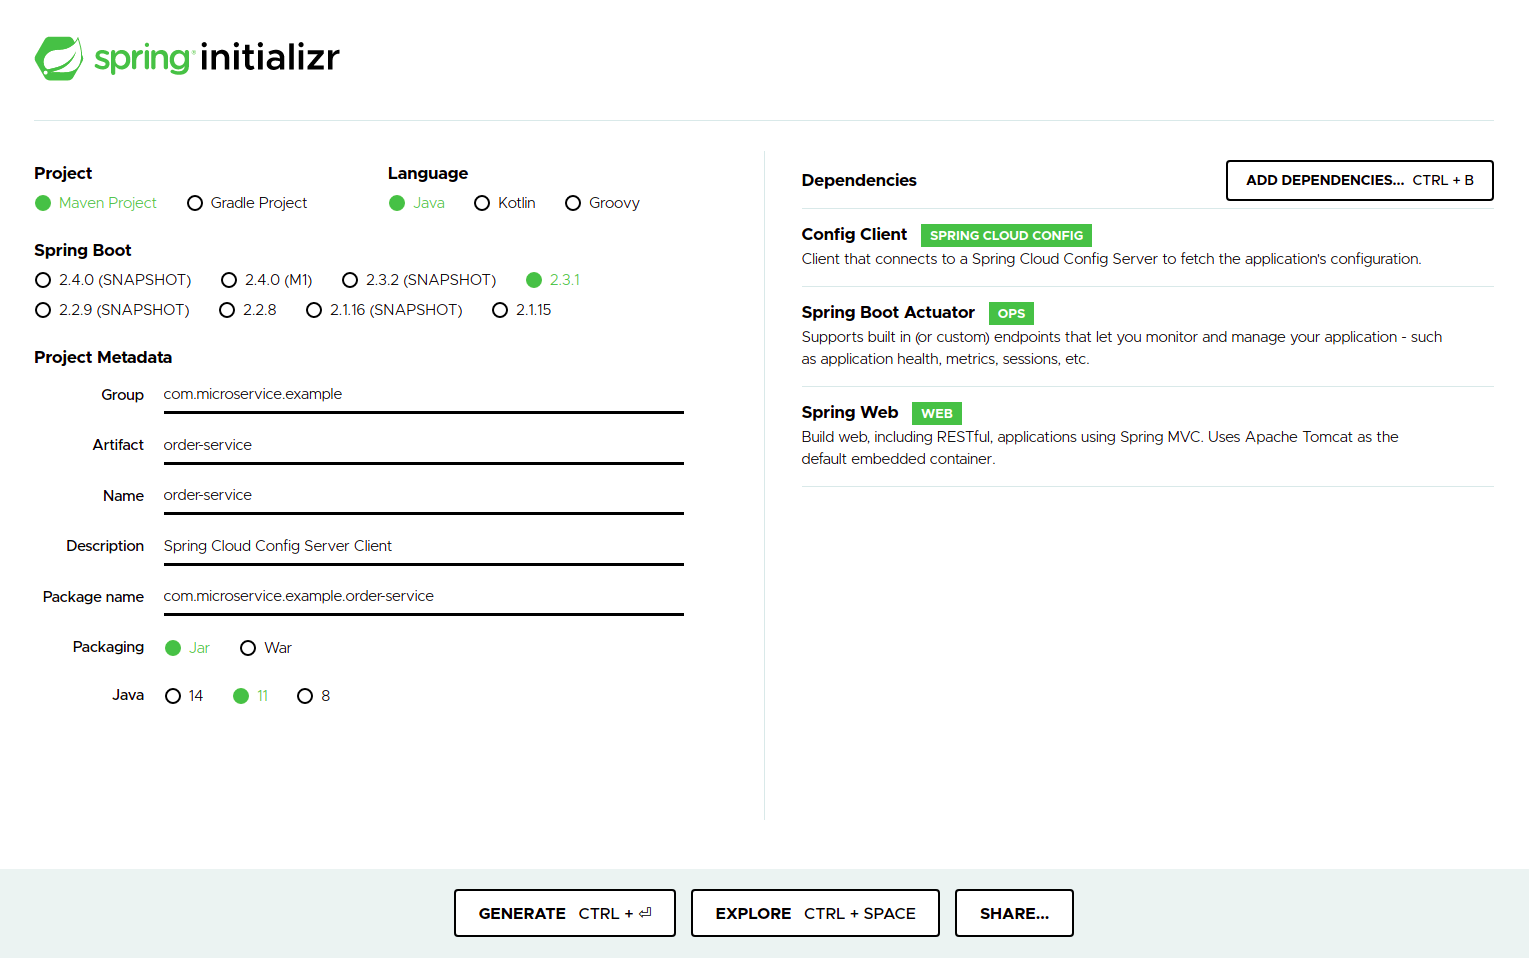
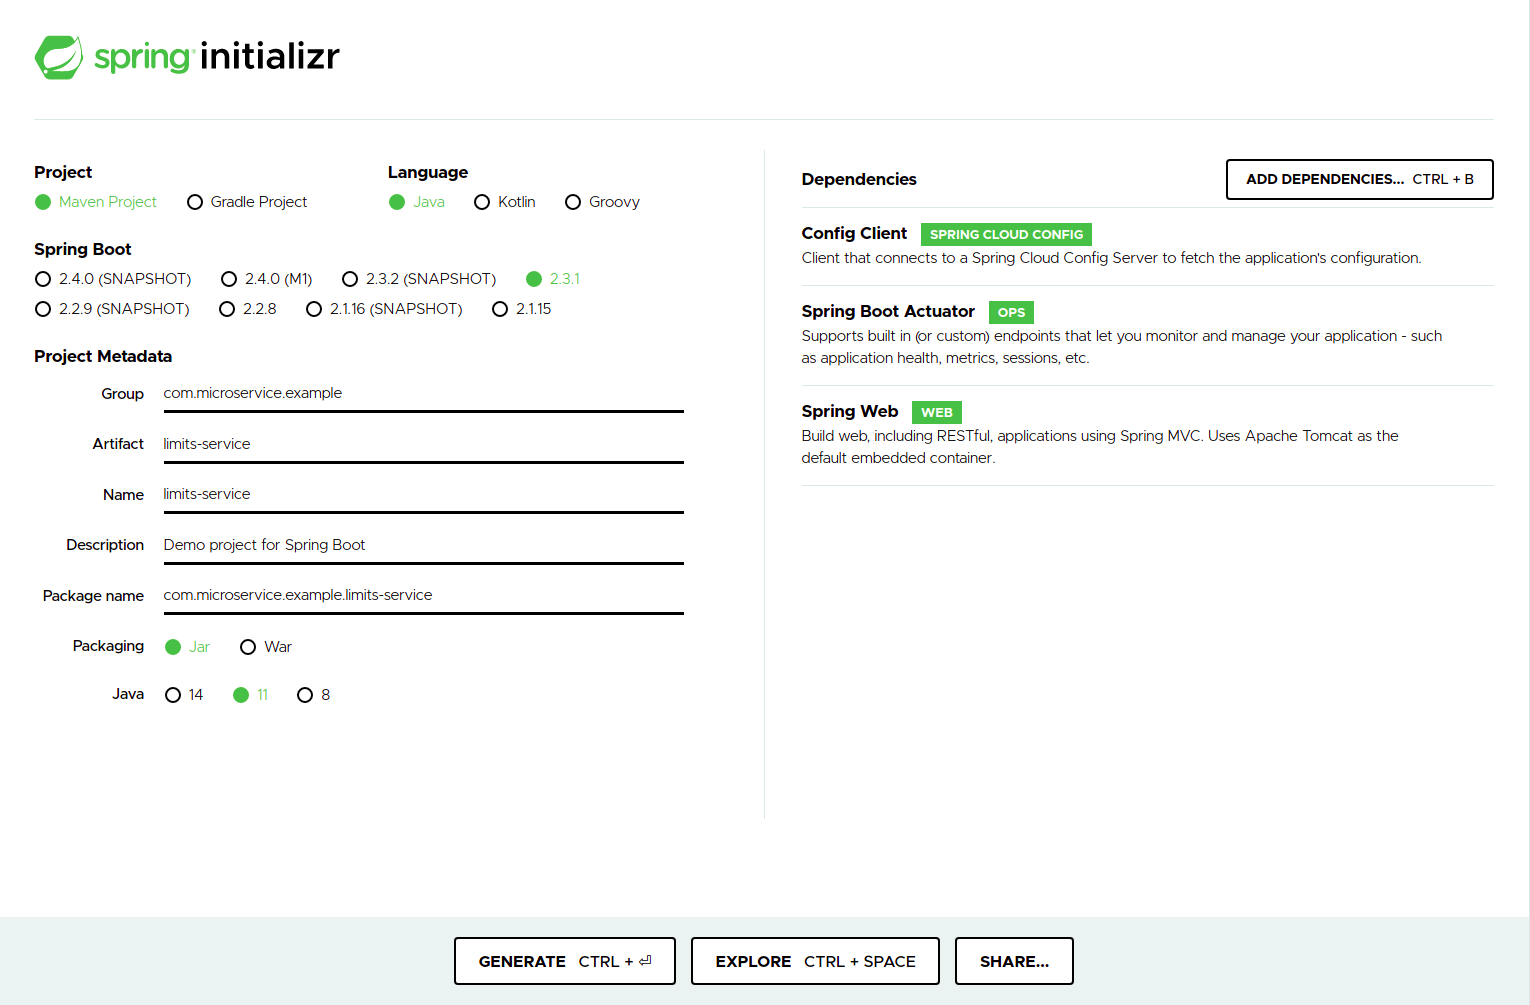
fixed

diff --git a/README.md b/README.md
@@ -9,3 +9,74 @@
 
 
 ![](images/spring-cloud-config-server-sheme.png)
+
+
+## Spring Cloud Config Server
+![](images/spring-cloud-config-server.png)
+
+pom.xml
+```json
+<dependencies>
+    <dependency>
+        <groupId>org.springframework.cloud</groupId>
+        <artifactId>spring-cloud-config-server</artifactId>
+    </dependency>
+
+    ***
+</dependencies>
+```
+
+application.properties
+```json
+spring.application.name=spring-cloud-config-server
+server.port=8888
+spring.cloud.config.server.git.uri=https://github.com/MehmetAlpGuler/spring-cloud-config-server-properties.git
+```
+SpringCloudConfigServerApplication.java
+```json
+@EnableConfigServer //just this annotation added for spring cloud config server
+@SpringBootApplication
+public class SpringCloudConfigServerApplication {
+
+	public static void main(String[] args) {
+		SpringApplication.run(SpringCloudConfigServerApplication.class, args);
+	}
+
+}
+```
+
+
+## Spring Cloud Config Client Microservice
+###limits-service
+![](images/spring-cloud-config-server-client.png)
+
+pom.xml
+```json
+<dependencies>
+
+    <dependency>
+        <groupId>org.springframework.boot</groupId>
+        <artifactId>spring-boot-starter-actuator</artifactId>
+    </dependency>
+
+    <dependency>
+        <groupId>org.springframework.boot</groupId>
+        <artifactId>spring-boot-starter-web</artifactId>
+    </dependency>
+
+    <dependency>
+        <groupId>org.springframework.cloud</groupId>
+        <artifactId>spring-cloud-starter-config</artifactId>
+    </dependency>
+
+    ***
+</dependencies>
+```
+
+bootstrap.properties
+```json
+spring.application.name=limits-service
+spring.cloud.config.uri=http://localhost:8888
+spring.profiles.active=dev
+management.security.enabled=false
+```
